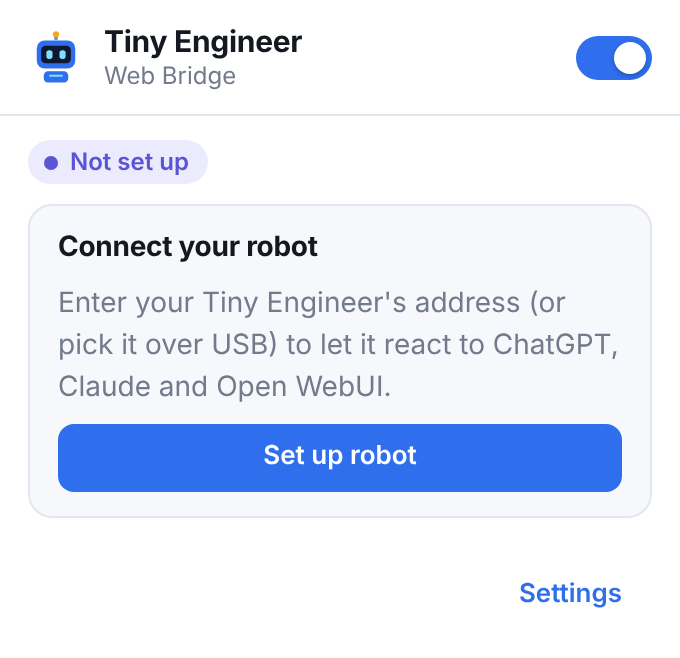
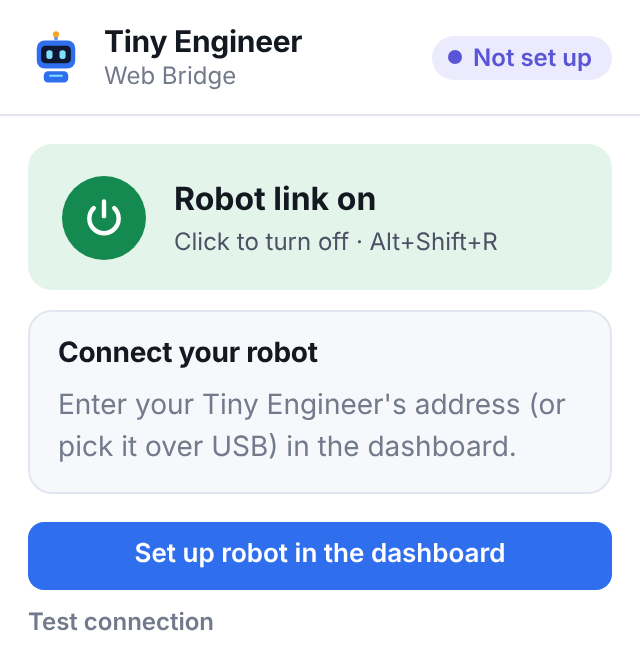
Popup: big robot-link on/off button and Open dashboard
- One large on/off control (green on, grey off, shortcut hint) replaces the
  small header switch; activity hidden while off
- 'Open dashboard' as the main action; connection test as a small link;
  right-click menu entry renamed to 'Open dashboard'
- Chromium e2e: popup button toggles the link and the toolbar OFF badge

Claude-Session: https://claude.ai/code/session_01UNnjzWy9ME3uHJR7TGVa6Q

diff --git a/src/popup/popup.ts b/src/popup/popup.ts
@@ -1,14 +1,25 @@
 import type { ConnectionTestResult, StatusSnapshot } from '../shared/messaging';
 import { loadConfig, saveConfig } from '../shared/storage';
-import { $, $input, connectionTone, formatAgo, platformLabel, sendToBackground, setText, STATE_LABELS, CONNECTION_LABELS } from '../shared/ui';
+import { $, CONNECTION_LABELS, connectionTone, formatAgo, platformLabel, sendToBackground, setText, STATE_LABELS } from '../shared/ui';
 
 const POLL_MS = 1500;
 let transport: 'http' | 'serial' = 'http';
+let shortcut = '';
+let enabled = true;
 
 function show(el: HTMLElement, text: string, tone: string): void {
   el.dataset.tone = tone;
   setText(el, text);
   el.hidden = text === '';
+}
+
+function renderPower(): void {
+  const power = $('#power');
+  power.setAttribute('aria-pressed', String(enabled));
+  setText($('#power-label'), enabled ? 'Robot link on' : 'Robot link off');
+  const keys = shortcut ? ` · ${shortcut}` : '';
+  setText($('#power-hint'), (enabled ? 'Click to turn off' : 'Click to turn on') + keys);
+  document.body.classList.toggle('off', !enabled);
 }
 
 async function refresh(): Promise<void> {
@@ -19,8 +30,8 @@ async function refresh(): Promise<void> {
     show($('#notice'), 'The extension background is not reachable. Try reopening the popup.', 'bad');
     return;
   }
-  document.body.classList.toggle('off', !s.enabled);
-  $input('#enabled').checked = s.enabled;
+  enabled = s.enabled;
+  renderPower();
 
   const conn = $('#connection');
   conn.dataset.tone = connectionTone(s.connection);
@@ -32,32 +43,31 @@ async function refresh(): Promise<void> {
 
   const unconfigured = s.connection === 'unconfigured';
   $('#welcome').hidden = !unconfigured;
-  $('#paused').hidden = unconfigured || s.enabled;
-  $('#activity').hidden = unconfigured || !s.enabled;
-  $('#test').hidden = unconfigured;
-  document.querySelector('.actions')?.classList.toggle('single', unconfigured);
+  $('#activity').hidden = unconfigured;
+  ($('#test') as HTMLButtonElement).disabled = unconfigured;
+  setText($('#dashboard'), unconfigured ? 'Set up robot in the dashboard' : 'Open dashboard');
 
   const state = s.controller?.state ?? 'idle';
   $('#state').dataset.state = state;
   setText($('#state-label'), STATE_LABELS[state] ?? state);
   setText(
     $('#source'),
-    s.controller
-      ? `${platformLabel(s.controller.platform)} · ${Math.round(s.controller.confidence * 100)} % confidence`
-      : 'No supported AI tab open',
+    s.controller ? `${platformLabel(s.controller.platform)} · ${Math.round(s.controller.confidence * 100)} % confidence` : 'No supported AI tab open',
   );
   setText($('#robot-animation'), s.robotAnimation ?? s.lastSent?.animation ?? '–');
   setText($('#last-sent'), s.lastSent ? `sent ${formatAgo(s.lastSent.at)}` : '');
 
   let notice = '';
-  if (s.connection === 'no-permission') notice = s.connectionDetail || 'The browser needs your permission to reach the robot. Open Settings → “Save & allow access”.';
+  if (s.connection === 'no-permission') notice = s.connectionDetail || 'The browser needs your permission to reach the robot. Open the dashboard → “Save & allow access”.';
   else if ((s.connection === 'error' || s.connection === 'disconnected') && s.enabled) notice = s.connectionDetail;
   show($('#notice'), notice, s.connection === 'disconnected' ? 'warn' : 'bad');
 }
 
-$input('#enabled').addEventListener('change', async (ev) => {
+$('#power').addEventListener('click', async () => {
+  enabled = !enabled;
+  renderPower(); // instant feedback
   const config = await loadConfig();
-  config.enabled = (ev.target as HTMLInputElement).checked;
+  config.enabled = enabled;
   await saveConfig(config);
   void refresh();
 });
@@ -65,7 +75,7 @@ $input('#enabled').addEventListener('change', async (ev) => {
 $('#test').addEventListener('click', async () => {
   const button = $('#test') as HTMLButtonElement;
   button.disabled = true;
-  button.classList.add('busy');
+  setText(button, 'Testing…');
   try {
     const res = await sendToBackground<ConnectionTestResult>({ kind: 'testConnection' });
     show($('#result'), res.message, res.ok ? 'ok' : 'bad');
@@ -73,20 +83,28 @@ $('#test').addEventListener('click', async () => {
     show($('#result'), 'Background script not reachable.', 'bad');
   } finally {
     button.disabled = false;
-    button.classList.remove('busy');
+    setText(button, 'Test connection');
     void refresh();
   }
 });
 
-const openSettings = () => {
+$('#dashboard').addEventListener('click', () => {
   void browser.runtime.openOptionsPage();
   window.close();
-};
-$('#settings').addEventListener('click', openSettings);
-$('#setup').addEventListener('click', openSettings);
-
-void loadConfig().then((c) => {
-  transport = c.device.transport;
-  void refresh();
 });
-setInterval(() => void refresh(), POLL_MS);
+
+async function init(): Promise<void> {
+  const config = await loadConfig();
+  transport = config.device.transport;
+  enabled = config.enabled;
+  try {
+    shortcut = (await browser.commands.getAll()).find((c) => c.name === 'toggle-bridge')?.shortcut ?? '';
+  } catch {
+    shortcut = '';
+  }
+  renderPower();
+  void refresh();
+  setInterval(() => void refresh(), POLL_MS);
+}
+
+void init();

diff --git a/src/popup/popup.css b/src/popup/popup.css
@@ -1,15 +1,30 @@
-body { width: 340px; background: var(--surface); }
+body { width: 320px; background: var(--surface); }
 .top { display: flex; align-items: center; gap: 10px; padding: 12px 14px; border-bottom: 1px solid var(--border); }
 .brand { flex: 1; line-height: 1.2; }
 .brand h1 { font-size: 15px; }
-main { display: grid; gap: 10px; padding: 12px 14px; }
-.status-row { display: flex; align-items: center; justify-content: space-between; gap: 8px; }
-.card { padding: 12px 14px; border-radius: var(--radius); background: var(--surface-2); border: 1px solid var(--border); display: grid; gap: 8px; }
+main { display: grid; gap: 10px; padding: 14px; }
+
+/* Big on/off control */
+.power {
+  display: flex; align-items: center; gap: 14px; width: 100%; padding: 14px 16px; text-align: left;
+  border-radius: var(--radius); border: 1px solid transparent; cursor: pointer; font: inherit;
+  background: var(--ok-soft); color: var(--fg); transition: background 0.15s, border-color 0.15s;
+}
+.power:hover { border-color: var(--ok); }
+.power:focus-visible { outline: none; box-shadow: var(--focus); }
+.power-icon { display: grid; place-items: center; width: 42px; height: 42px; border-radius: 50%; background: var(--ok); color: #fff; flex: none; }
+.power-icon svg { fill: none; stroke: currentColor; stroke-width: 2.4; stroke-linecap: round; }
+.power-text { display: grid; gap: 1px; }
+.power-text strong { font-size: 16px; }
+.power-text span { font-size: 12px; color: var(--fg-2); }
+.power[aria-pressed="false"] { background: var(--surface-2); border-color: var(--border); }
+.power[aria-pressed="false"]:hover { border-color: var(--border-strong); }
+.power[aria-pressed="false"] .power-icon { background: var(--border-strong); color: var(--surface); }
+
+.card { padding: 12px 14px; border-radius: var(--radius); background: var(--surface-2); border: 1px solid var(--border); display: grid; gap: 6px; }
 .card h2 { font-size: 14px; }
-.eyebrow { font-size: 11px; font-weight: 700; letter-spacing: 0.06em; text-transform: uppercase; color: var(--muted); }
-.state { display: flex; align-items: center; gap: 10px; font-size: 20px; font-weight: 700; letter-spacing: -0.01em; }
-.state .dot { width: 12px; height: 12px; border-radius: 50%; background: var(--muted); box-shadow: 0 0 0 4px color-mix(in srgb, currentColor 0%, transparent); }
-.state[data-state="idle"] .dot, .state[data-state="unknown"] .dot { background: var(--border-strong); }
+.state { display: flex; align-items: center; gap: 10px; font-size: 17px; font-weight: 700; }
+.state .dot { width: 11px; height: 11px; border-radius: 50%; background: var(--border-strong); }
 .state[data-state="user_typing"] .dot { background: var(--info); }
 .state[data-state="thinking"] .dot { background: var(--info); animation: pulse 1.4s ease-in-out infinite; }
 .state[data-state="responding"] .dot { background: var(--accent); animation: pulse 0.9s ease-in-out infinite; }
@@ -17,7 +32,11 @@ main { display: grid; gap: 10px; padding: 12px 14px; }
 .state[data-state="completed"] .dot { background: var(--ok); }
 .state[data-state="error"] .dot { background: var(--bad); }
 .source { color: var(--fg-2); font-size: 13px; }
-.robot-line { display: flex; align-items: center; gap: 8px; flex-wrap: wrap; padding-top: 8px; border-top: 1px dashed var(--border-strong); font-size: 13px; }
-.actions { display: grid; grid-template-columns: 1fr auto; gap: 8px; padding: 10px 14px 14px; }
-.actions.single { grid-template-columns: 1fr; justify-items: end; }
-body.off .activity { opacity: 0.5; }
+.robot-line { display: flex; align-items: center; gap: 8px; flex-wrap: wrap; padding-top: 6px; border-top: 1px dashed var(--border-strong); font-size: 13px; }
+
+.actions { display: grid; gap: 8px; padding: 0 14px 14px; }
+.sub-actions { display: flex; align-items: center; justify-content: space-between; gap: 8px; }
+.linklike { background: none; border: 0; padding: 0; color: var(--accent); font: 600 12px var(--font); cursor: pointer; }
+.linklike:hover { text-decoration: underline; }
+.linklike:disabled { color: var(--muted); cursor: default; text-decoration: none; }
+body.off .activity { display: none; }

diff --git a/src/popup/index.html b/src/popup/index.html
@@ -14,33 +14,28 @@
         <h1>Tiny Engineer</h1>
         <p class="muted small">Web Bridge</p>
       </div>
-      <label class="switch" title="Pause or resume the bridge">
-        <input type="checkbox" id="enabled" aria-label="Bridge enabled" />
-        <span class="track" aria-hidden="true"></span>
-      </label>
+      <span class="pill" id="connection" data-tone="warn">Checking…</span>
     </header>
 
     <main>
-      <div class="status-row">
-        <span class="pill" id="connection" data-tone="warn">Checking…</span>
-        <span class="muted small" id="link"></span>
-      </div>
+      <!-- The one big control: robot link on/off -->
+      <button type="button" class="power" id="power" aria-pressed="true">
+        <span class="power-icon" aria-hidden="true">
+          <svg viewBox="0 0 24 24" width="22" height="22"><path d="M12 3v8" /><path d="M6.4 6.6a8 8 0 1 0 11.2 0" /></svg>
+        </span>
+        <span class="power-text">
+          <strong id="power-label">Robot link on</strong>
+          <span id="power-hint">Click to turn off</span>
+        </span>
+      </button>
 
       <!-- Shown until a robot is configured -->
       <section class="card welcome" id="welcome" hidden>
         <h2>Connect your robot</h2>
-        <p class="muted">Enter your Tiny Engineer's address (or pick it over USB) to let it react to ChatGPT, Claude and Open WebUI.</p>
-        <button type="button" class="btn block" id="setup">Set up robot</button>
-      </section>
-
-      <!-- Shown while paused -->
-      <section class="card paused" id="paused" hidden>
-        <h2>Bridge paused</h2>
-        <p class="muted">The robot is at rest and no commands are sent. Use the switch above to resume.</p>
+        <p class="muted">Enter your Tiny Engineer's address (or pick it over USB) in the dashboard.</p>
       </section>
 
       <section class="card activity" id="activity" aria-live="polite">
-        <p class="eyebrow">AI activity</p>
         <div class="state" id="state" data-state="idle">
           <span class="dot" aria-hidden="true"></span>
           <span id="state-label">Idle</span>
@@ -58,8 +53,11 @@
     </main>
 
     <footer class="actions">
-      <button type="button" class="btn secondary" id="test">Test connection</button>
-      <button type="button" class="btn ghost" id="settings">Settings</button>
+      <button type="button" class="btn block" id="dashboard">Open dashboard</button>
+      <div class="sub-actions">
+        <button type="button" class="linklike" id="test">Test connection</button>
+        <span class="muted small" id="link"></span>
+      </div>
     </footer>
     <script src="popup.js"></script>
   </body>

diff --git a/src/background/index.ts b/src/background/index.ts
@@ -93,7 +93,7 @@ async function createMenus(config: Config): Promise<void> {
     await browser.contextMenus.removeAll();
     browser.contextMenus.create({ id: MENU_TOGGLE, title: ui.toggleMenuTitle, contexts });
     browser.contextMenus.create({ id: MENU_POPUP_MODE, title: 'One click on the icon turns on/off', type: 'checkbox', checked: config.toolbarClick === 'toggle', contexts });
-    browser.contextMenus.create({ id: MENU_SETTINGS, title: 'Settings', contexts });
+    browser.contextMenus.create({ id: MENU_SETTINGS, title: 'Open dashboard', contexts });
   } catch {
     /* menus unavailable — the icon still works */
   }

diff --git a/README.md b/README.md
@@ -31,7 +31,7 @@ The robot is driven **directly from the extension** over your local **Wi-Fi (HTT
 ## Turning it on and off
 
 - The toolbar icon shows the state: coloured = on, grey with **OFF** = off.
-- Click the icon → switch in the popup, or press **Alt+Shift+R**.
+- Click the icon → big **Robot link on/off** button and **Open dashboard** in the popup, or press **Alt+Shift+R**.
 - Prefer one click? Settings → Behaviour → *One click turns on/off* (or right-click the icon → *One click on the icon turns on/off*). Settings are then in the right-click menu.
 - Change the shortcut: Firefox `about:addons` → gear → *Manage Extension Shortcuts*; Chrome `chrome://extensions/shortcuts`.
 - Icon not visible? Pin it: puzzle icon in the toolbar → pin *Tiny Engineer Web Bridge*.

diff --git a/CHANGELOG.md b/CHANGELOG.md
@@ -5,6 +5,7 @@ All notable changes to this project are documented here. The format follows [Kee
 ## [1.1.0] - 2026-11-19
 
 ### Added
+- **Simpler popup:** a big “Robot link on/off” button and an “Open dashboard” button (connection test moved to a small link).
 - **Toolbar on/off:** the toolbar icon turns grey with an “OFF” badge while the bridge is off.
 - **Keyboard shortcut** **Alt+Shift+R** turns the bridge on/off (changeable in the browser's extension shortcut settings).
 - **One-click mode (optional):** a click on the icon turns the bridge on/off instead of opening the popup; settings and on/off are in the icon's right-click menu. Choose under Settings → Behaviour or via the right-click menu.
